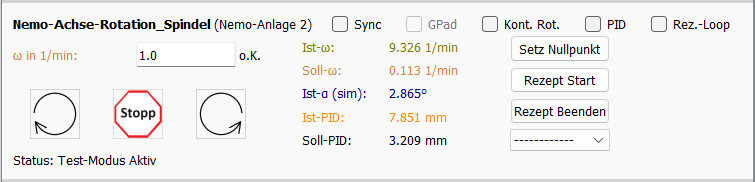
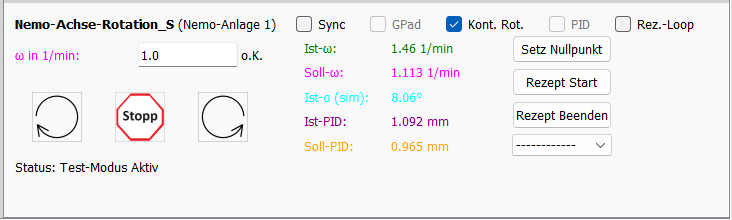
27.3.25 - Info Readme Update

diff --git a/Information/GUI_De.md b/Information/GUI_De.md
@@ -99,11 +99,12 @@ Wie bei PI-Achse und TruHeat ändert der PID-Modus den einzugebenen Sollwert und
 
 ### Nemo-Anlage: Antrieb Rotation
 
-<img src="../Bilder/WidgetDe_NemoRot.png" alt="NemoRot-Widget" title='Beispiel für Nemo-Anlage-Rotation-Widget' width=700/>    
+<img src="../Bilder/WidgetDe_NemoRot.png" alt="NemoRot-Widget-Nemo-1" title='Beispiel für Nemo-1-Anlage-Rotation-Widget' width=700/>    
+<img src="../Bilder/WidgetDe_NemoRot_N2.png" alt="NemoRot-Widget-Nemo-2" title='Beispiel für Nemo-2-Anlage-Rotation-Widget' width=700/>    
 
-Stand des Bildes: 11.02.25
+Stand des Bildes: 27.03.25
 
-Das Widget gehört zu der Rotations-Bewegung der Nemo-Anlagen-Antriebe. Im Beispiel wird das Widget der Nemo-Anlage 2 gezeigt. Die Nemo-Anlage 1 ist identisch im Aufbau der GUI. Gesendet wird hier die Winkelgeschwindigkeit. Folgende Punkte beinhaltet das Widget:
+Das Widget gehört zu der Rotations-Bewegung der Nemo-Anlagen-Antriebe. Im Beispiel werden beide Widgets gezeigt. Beide GUIs unterscheiden sich nur minimal von einander. Bei der Nemo-2-Anlage gibt es zusätzliche Werte. Gesendet wird hier die Winkelgeschwindigkeit. Folgende Punkte beinhaltet das Widget:
 
 1. Rezept Funktionen (Start, Beenden, Auswahl)
 2. Syncro-Rezept Funktion freischalten (Checkbox)
@@ -196,4 +197,4 @@ TruHeat             | Messzeit auf Null Sekunden setzen! Auch beim Init! | Der W
 
 ## Letzte Änderung
 
-Die Letzte Änderung dieser Beschreibung war: 11.02.2025
+Die Letzte Änderung dieser Beschreibung war: 27.03.2025

diff --git a/Information/GUI_En.md b/Information/GUI_En.md
@@ -99,11 +99,12 @@ As with the PI axis and TruHeat, the PID mode changes the setpoint to be entered
 
 ### Nemo system: Drive rotation
 
-<img src="../Bilder/WidgetEn_NemoRot.png" alt="NemoRot-Widget" title='Example of Nemo system rotation widget' width=700/>
+<img src="../Bilder/WidgetEn_NemoRot.png" alt="NemoRot-Widget-Nemo-1" title='Example of Nemo 1 system rotation widget' width=700/>
+<img src="../Bilder/WidgetEn_NemoRot_N2.png" alt="NemoRot-Widget-Nemo-2" title='Example of Nemo 2 system rotation widget' width=700/>
 
-Image status: February 11, 2025
+Image status: March 27, 2025
 
-The widget belongs to the rotation movement of the Nemo system drives. The example shows the widget of Nemo system 2. Nemo system 1 has an identical GUI structure. The angular velocity is sent here. The widget contains the following points:
+The widget belongs to the rotational movement of the Nemo system drives. Both widgets are shown in the example. The two GUIs differ only minimally from each other. The Nemo 2 system has additional values. The angular velocity is sent here. The widget contains the following items:
 
 1. Recipe functions (start, stop, selection)
 2. Activate syncro recipe function (checkbox)
@@ -196,4 +197,4 @@ TruHeat             | Set measurement time to zero seconds! Also at Init! | The 
 
 ## Last change
 
-The last change to this description was: February 11, 2025
+The last change to this description was: March 26, 2025

diff --git a/Information/Funktion_DE.md b/Information/Funktion_DE.md
@@ -43,6 +43,10 @@ Nemo-Generator |1. Lese Max-Limits (P, I, U, f) und Generator Einstellungen (Nam
 PI-Achse | 1. Lese Informationen: <br>- Board Adresse, Status, Version <br>2. Start-Position Lesen
 TruHeat | 1. Schreibe den Watchdog-Timer<br>2. Lese Informationen:<br>- Software Version, Seriennummer Modul, Netzteil-Typ, SIMIN, SUMIN, Maximale Leistung, Maximaler Strom, Maximale Spannung, Aktives Interface 
 
+### Neustart
+
+Über Argparser kann zu Beginn mit `-n` die Neustart Funktion ausgeführt werden. Diese Funktion wurde für Programmabstürze gedacht, doch hat in VIFCON keine große Rolle mehr. Wenn dies mit `-n` gestartet wird, werden lediglich die unter [Start-Funktion](#start-funktion) stehenden Punkte nicht ausgeführt. Der Neustart-Modus wird ansich nicht mehr gebraucht, da die meisten Start-Konfigurationen entweder durch die Config abstellbar (z.B. Setzen von HO und PID-Werten bei Eurotherm) sind oder im späteren neu gesetzt werden können (z.B. PID-VIFCON-Werte, Limits, Rezepte).
+
 ## Plot, Legenden und Cursor
 
 <img src="../Bilder/GUI_S_De.png" alt="GUI" title='Grafische Oberfläche - Tab Steuerung' width=700/>
@@ -376,4 +380,4 @@ Die Ablaufdatei ist eine zusätzliche Log-Datei. In dieser wird z.B. vermerkt, w
 
 ## Letzte Änderung
 
-Die Letzte Änderung dieser Beschreibung war: 13.03.2025
+Die Letzte Änderung dieser Beschreibung war: 27.03.2025

diff --git a/Information/Funktion_En.md b/Information/Funktion_En.md
@@ -43,6 +43,10 @@ Nemo-Generator |1. Read max limits (P, I, U, f) and generator settings (name, ty
 PI-Axis | 1. Read information: <br>- Board address, status, version <br>2. Read start position
 TruHeat | 1. Write watchdog timer<br>2. Read information:<br>- Software version, Module serial number, Power supply type, SIMIN, SUMIN, Maximum power, Maximum current, Maximum voltage, Active interface
 
+### Restart
+
+The restart function can be executed via Argparser at the beginning with `-n`. This function was intended for program crashes, but no longer plays a major role in VIFCON. When started with `-n`, only the items listed under [Start-Function](#start-function) are not executed. The restart mode itself is no longer needed, since most startup configurations can either be disabled via the config (e.g., setting HO and PID values for Eurotherm) or can be reset later (e.g., PID VIFCON values, limits, recipes).
+
 ## Plot, legends and cursors
 
 <img src="../Bilder/GUI_S_En.png" alt="GUI" title='Graphical interface - Control tab' width=700/>
@@ -377,4 +381,4 @@ The expiration file is an additional log file. It records, for example, which GU
 
 ## Last change
 
-The last change to this description was: March 13, 2025
+The last change to this description was: March 27, 2025
